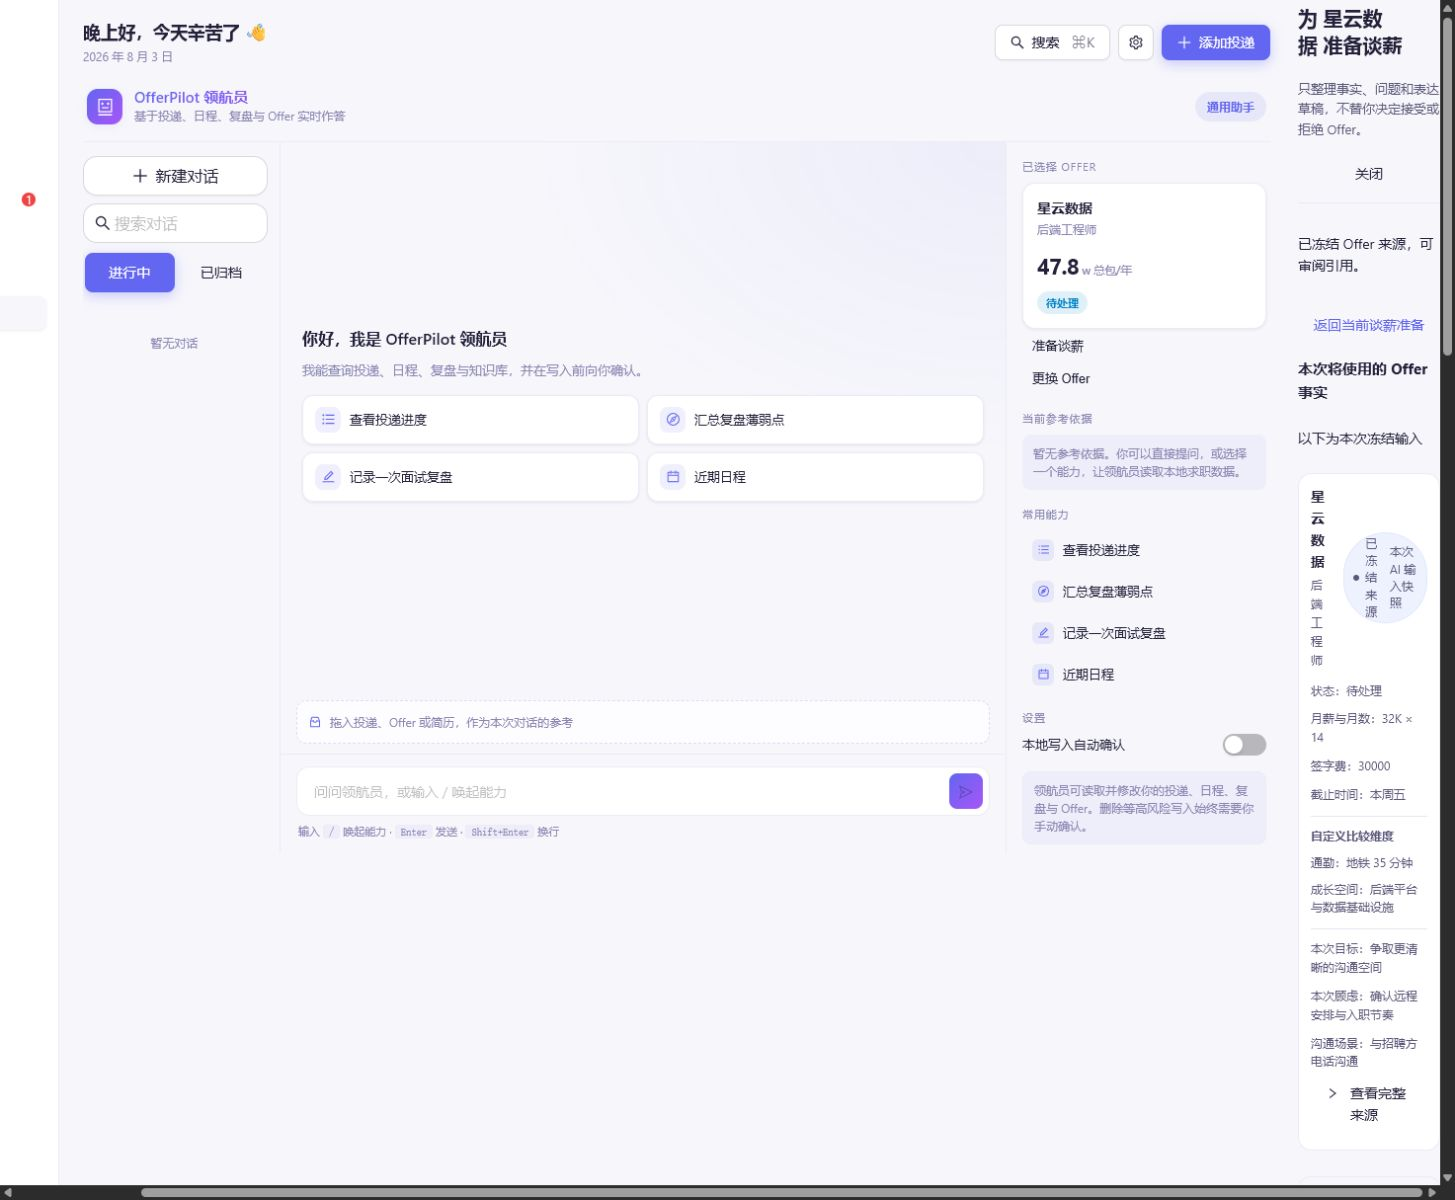
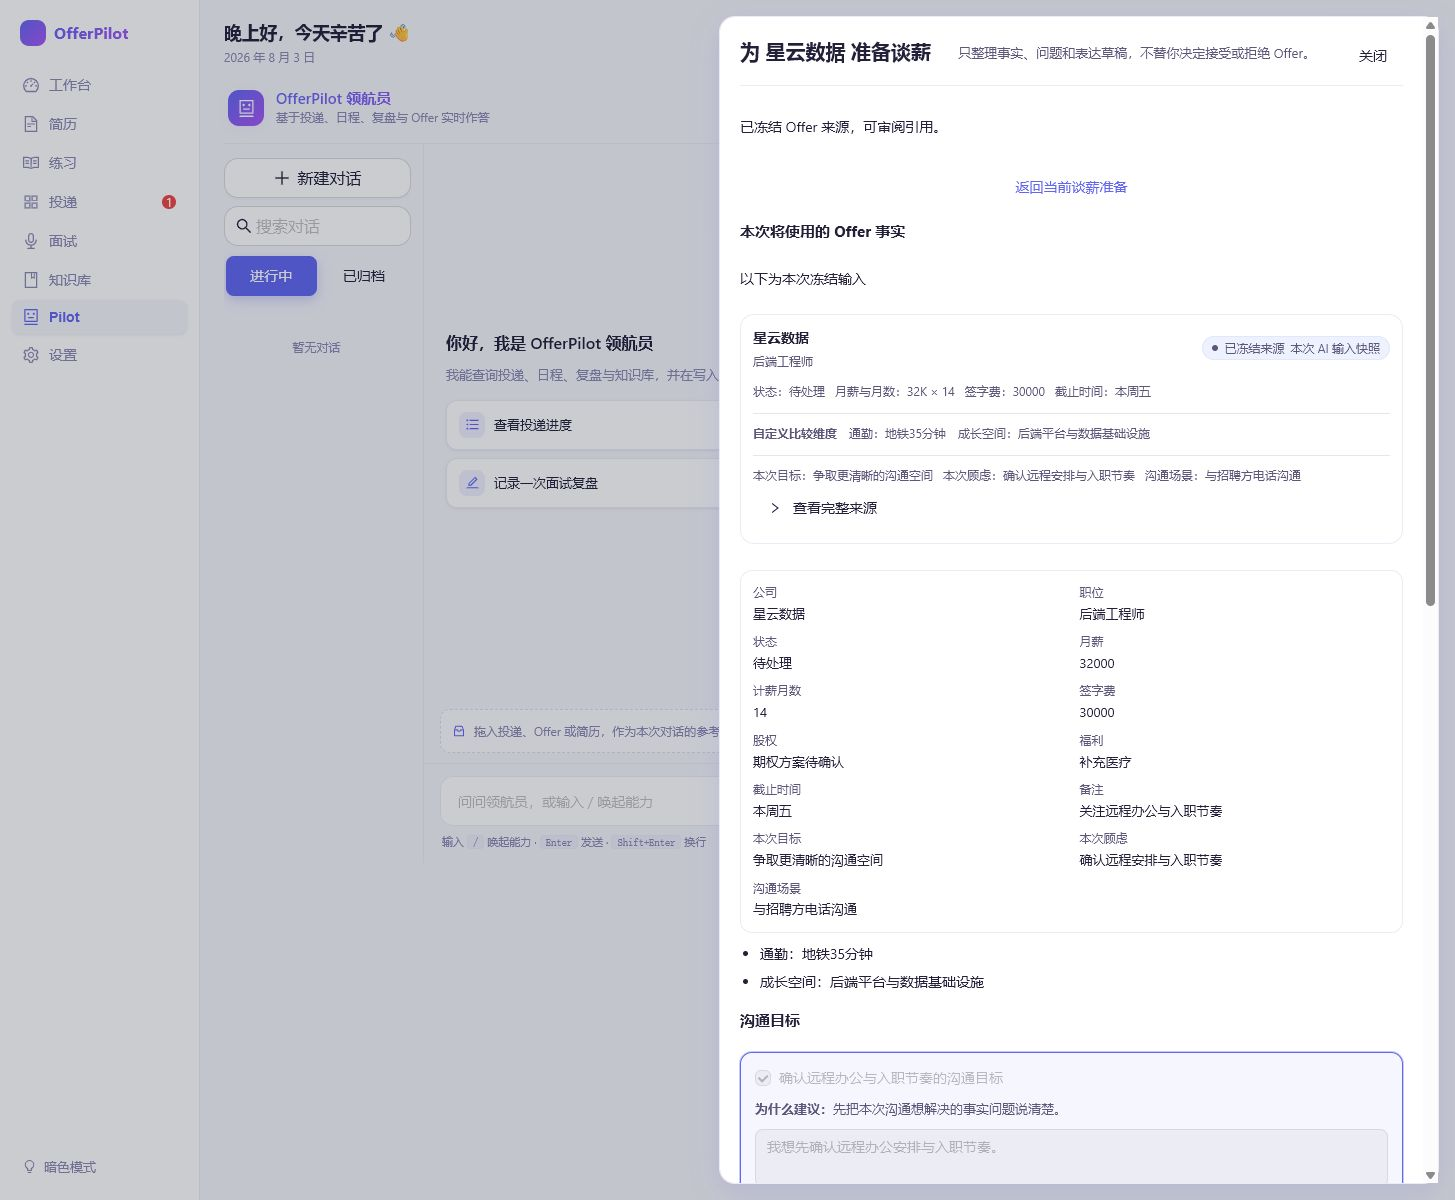
test: AI refresh Pilot overlay screenshot evidence

diff --git a/artifacts/2026-08-03-offer-negotiation/release-verification.md b/artifacts/2026-08-03-offer-negotiation/release-verification.md
@@ -9,11 +9,11 @@
 ## 代码与环境
 
 - 分支：`feat/20260801-offer-negotiation`
-- UI 代码验证基线：`021b7ef`
+- UI 代码验证基线：`9fe0efc`
 - 服务：隔离临时数据目录中的本地 OfferPilot；真实浏览器端口为本次临时服务端口
 - 配置：从现有配置静默复制到隔离目录；未输出或修改密钥
 - 案例：中文候选人“筱哲”；Offer 为“星云数据｜后端工程师”和“远山科技｜平台工程师”
-- 浏览器：亮色模式；`02` 保持此前已复核版本，`10` 已基于 `021b7ef` 重新录制，均为 `1455×1200` 单视口原始截图；未拼接长图、未缩放或补白
+- 浏览器：亮色模式；`02` 保持此前已复核版本，`10` 已基于 `9fe0efc` 重新录制，均为 `1455×1200` 单视口原始截图；未拼接长图、未缩放或补白
 
 ## UI 入口
 
@@ -123,7 +123,7 @@ tests/test_calendar_api.py::test_calendar_includes_applications_and_events
 | [07-pilot-answer-selected-offer.png](./07-pilot-answer-selected-offer.png) | 1455×909 | Pilot：用户选择后展示明确 Offer 上下文，并可更换 Offer |
 | [08-pilot-source-confirmation-frozen.png](./08-pilot-source-confirmation-frozen.png) | 1440×900 | Pilot：来源确认与冻结提示 |
 | [09-pilot-input-confirmation.png](./09-pilot-input-confirmation.png) | 1455×909 | Pilot：确认发送前查看已选 Offer、冻结事实与本次谈薪输入 |
[2 lines of base64/hex data omitted]
 | [11-single-offer-coach.png](./11-single-offer-coach.png) | 1455×909 | 既有单 Offer“谈薪教练”入口保持可用 |
 
 ## 剩余风险与下一步
